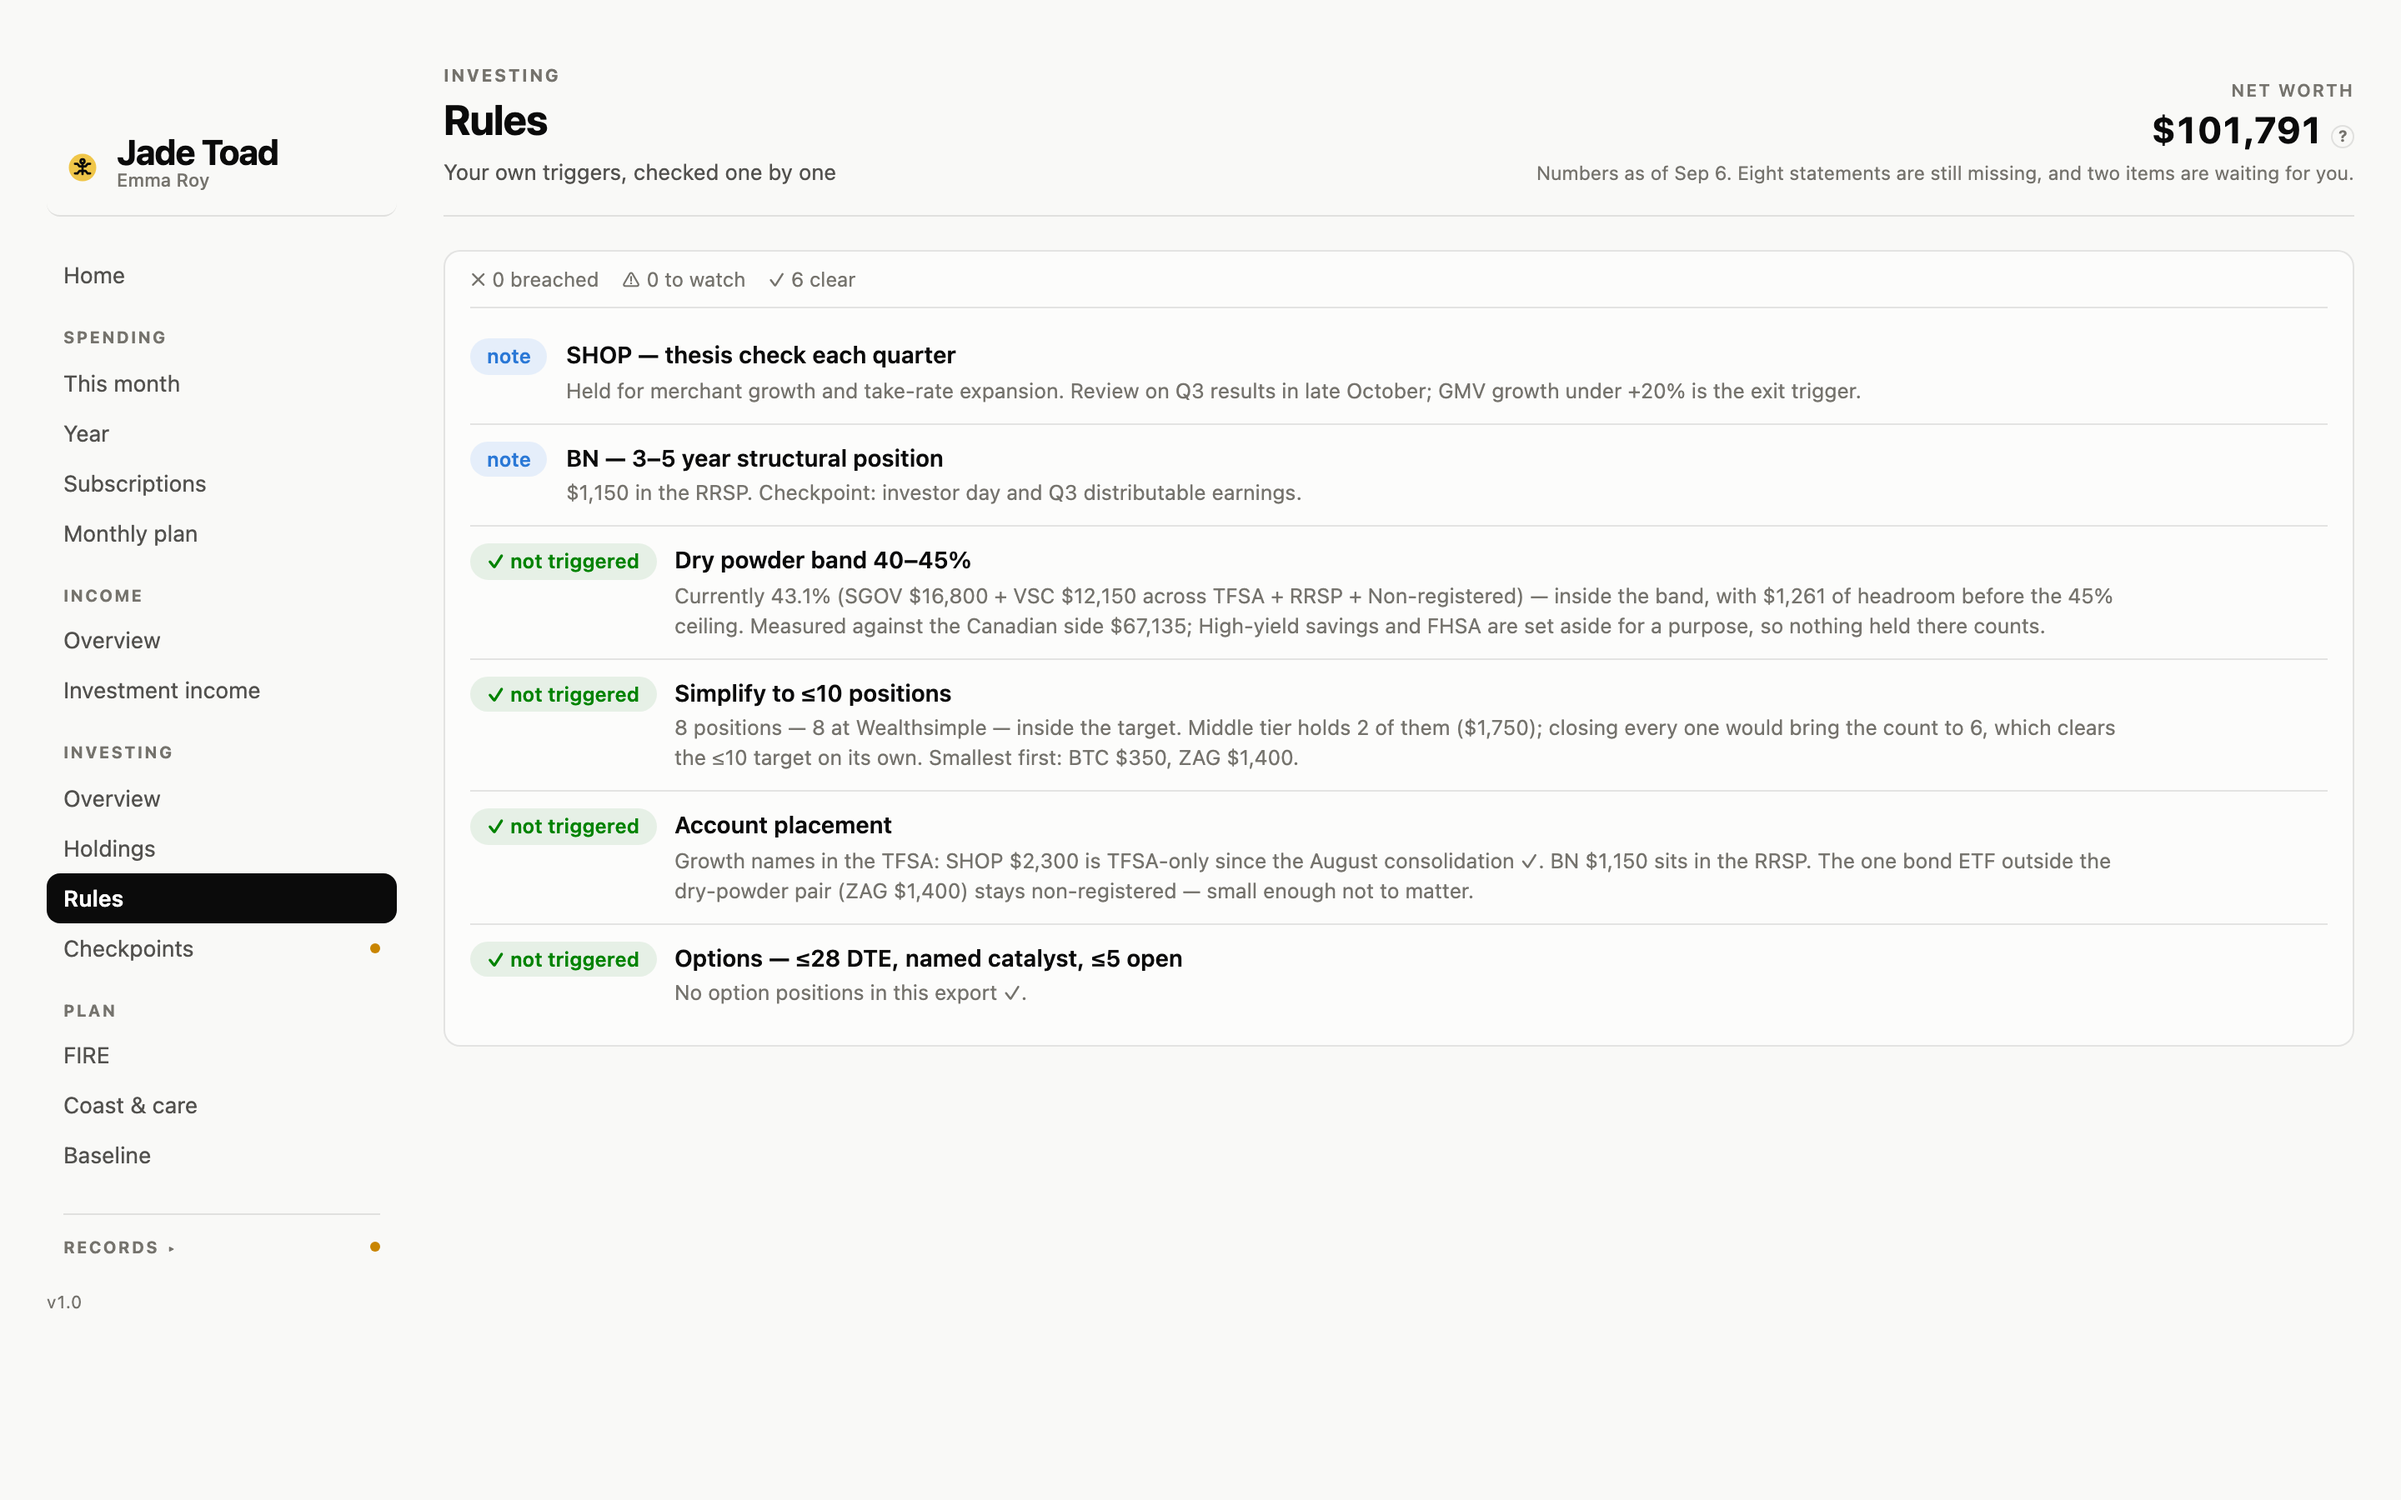
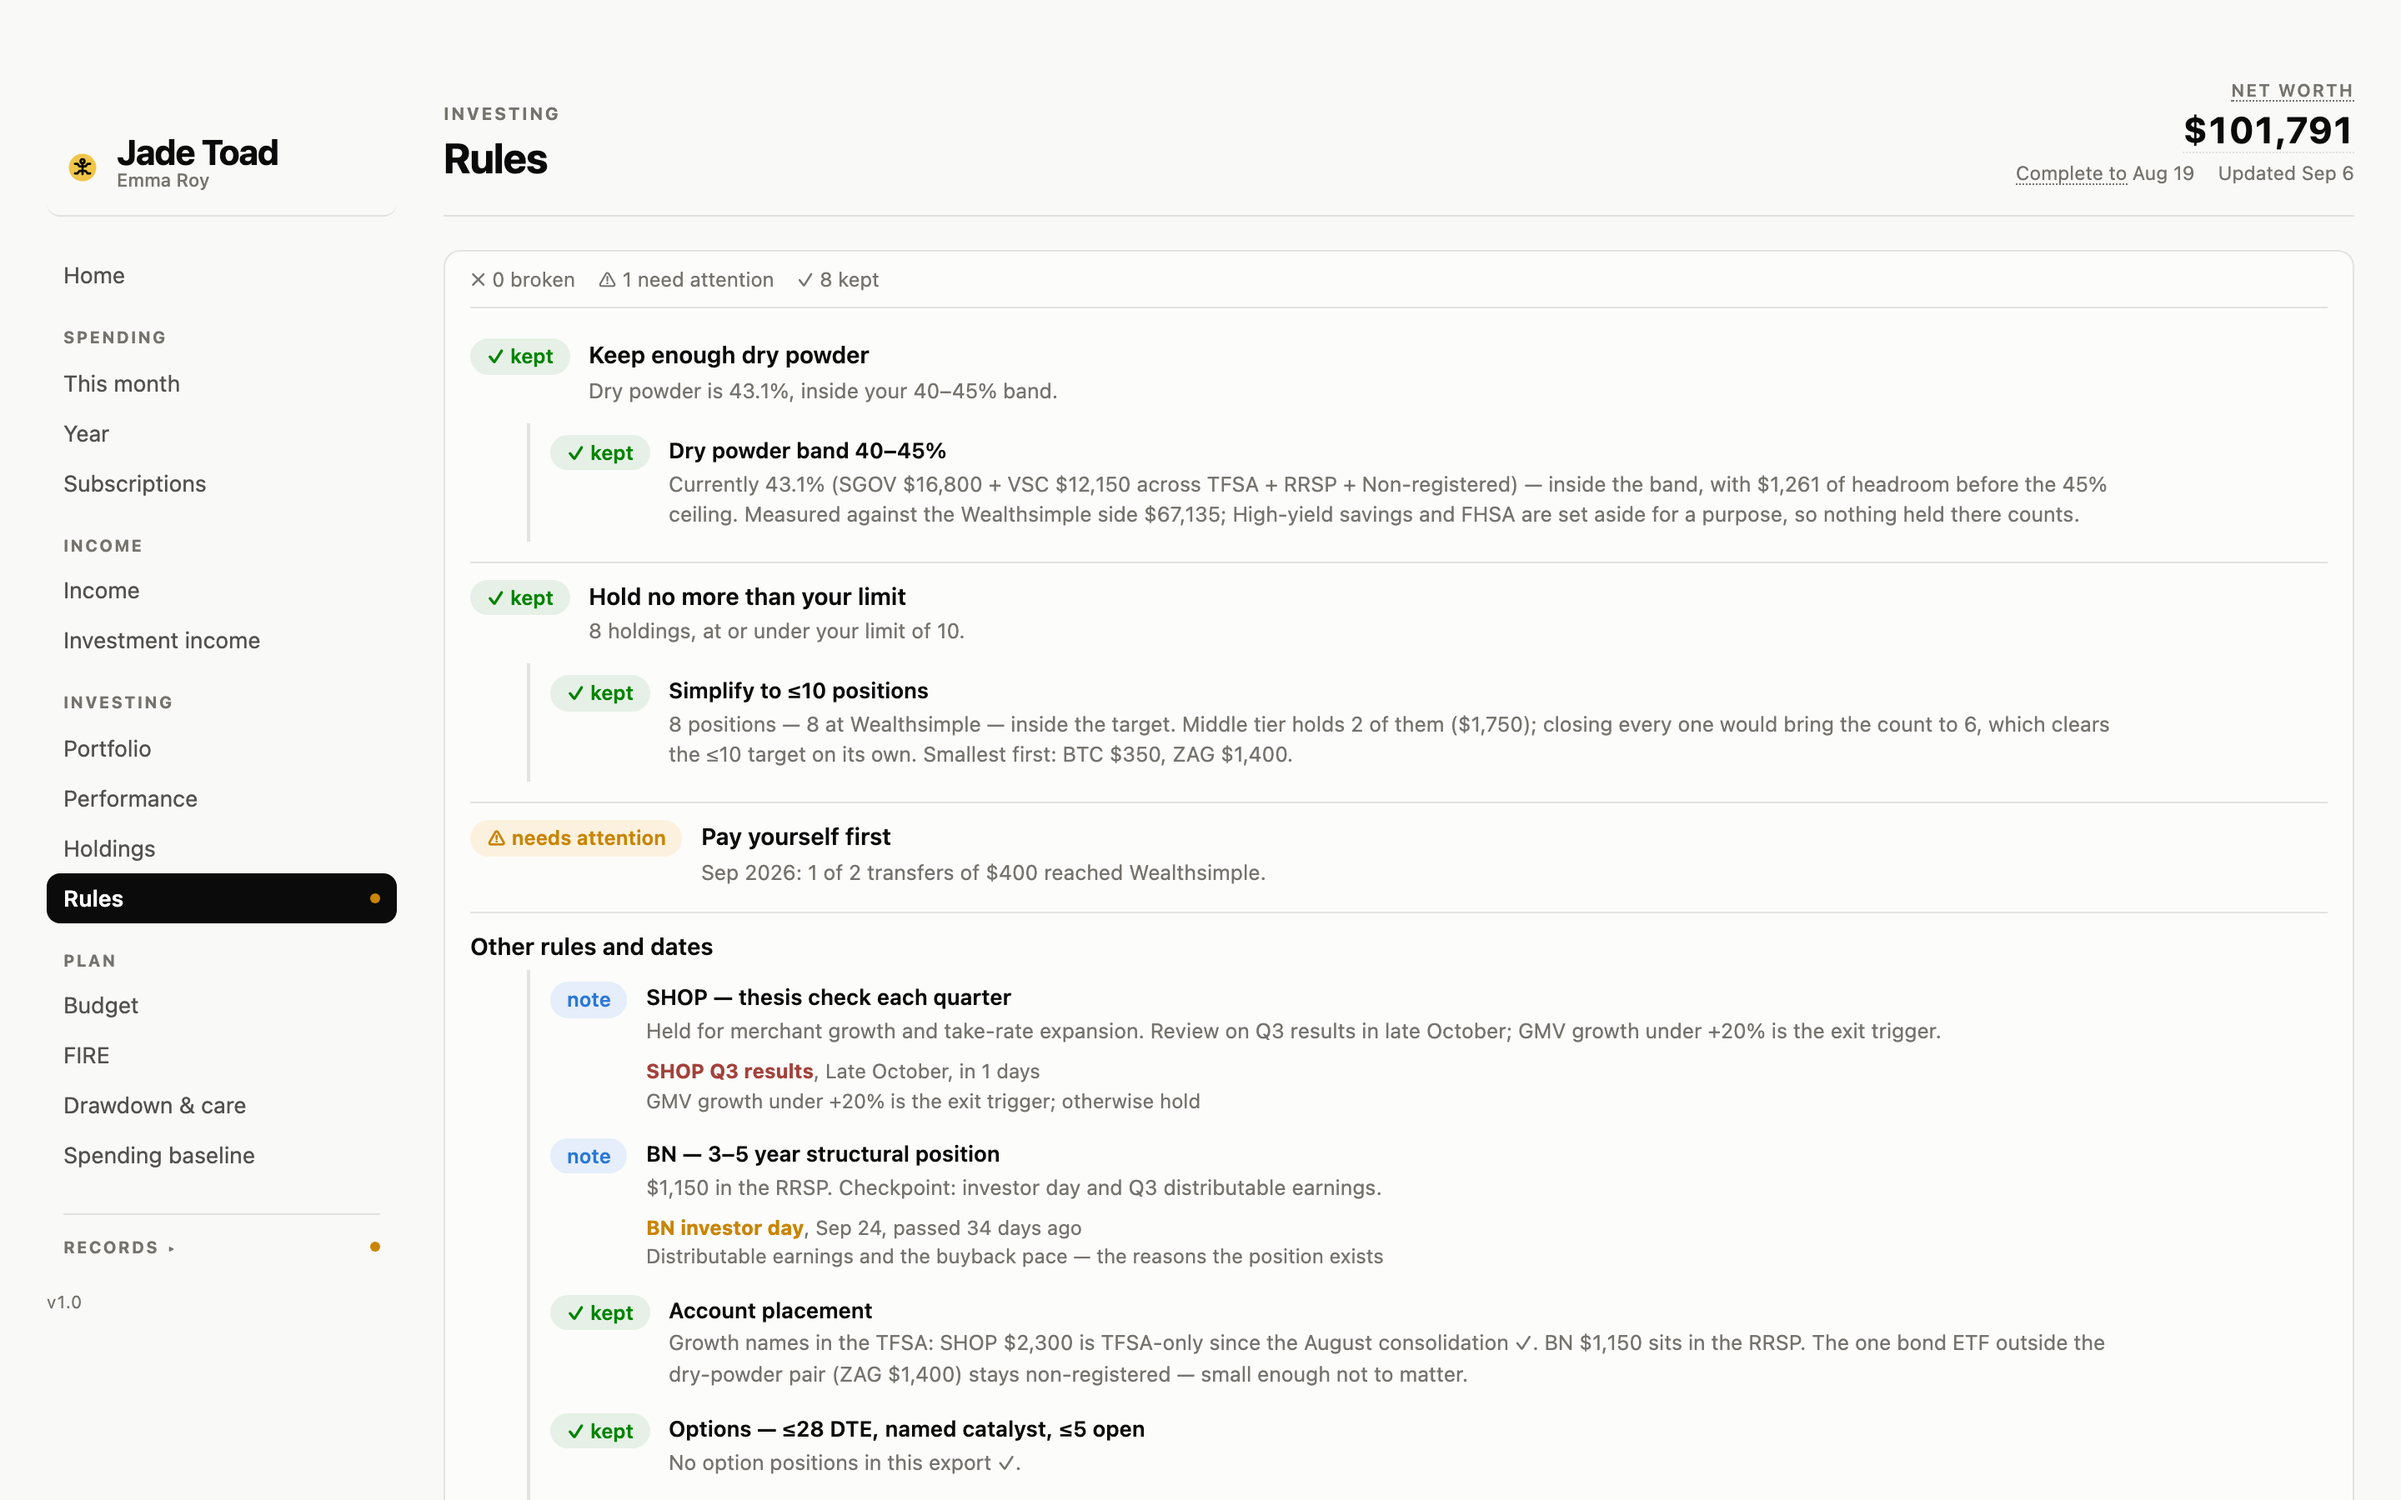
README: every page and what it answers, what is new since the first release, fresh screenshots; selftest copies the changelog and roadmap

diff --git a/.claude/skills/workspace-checks/scripts/selftest.py b/.claude/skills/workspace-checks/scripts/selftest.py
@@ -44,7 +44,8 @@ def stage(root, dst):
     # OWNER.md is optional (a workspace may not have written one yet); README names it.
     # .gitignore too: S4 exempts the files an owner writes and the tool deliberately does not ship
     # (setup-answers.json), and it learns which those are from there (2026-09-13).
-    for f in ("CLAUDE.md", "DESIGN.md", "FINANCE.md", "README.md", "OWNER.md", ".gitignore"):
+    # CHANGELOG.md and ROADMAP.md: README links to both, and S4 resolves every link.
+    for f in ("CLAUDE.md", "DESIGN.md", "FINANCE.md", "README.md", "OWNER.md", ".gitignore", "CHANGELOG.md", "ROADMAP.md"):
         if os.path.exists(os.path.join(root, f)):
             shutil.copy2(os.path.join(root, f), dst)
     # README names these folders in prose and S4 checks that every path it hands the reader

diff --git a/README.md b/README.md
@@ -21,11 +21,52 @@ does.
 
 | | |
 |---|---|
-| ![Net worth, cut two ways](docs/screens/home.png) | **Home.** Your net worth, cut by what each part is for and by how easily you could reach it. A sentence under it says how far the numbers go and what is still missing. |
-| ![A year of spending](docs/screens/spending.png) | **Spending.** This month opened up by category, then the year by month. No category caps — one allowance, and everything under it is guilt-free. |
-| ![The budget](docs/screens/plan.png) | **Budget.** What each paycheque is for: what is committed, what is invested first, what is free, what the two funds hold. |
-| ![Your investment rules](docs/screens/rules.png) | **Investing.** Your own rules — a cash band, a cap on holdings, the theses you wrote down — checked one by one against what you actually hold. |
-| ![Which file was filed](docs/screens/sources.png) | **Records.** Which statement arrived which month, every account and what it is still missing, and what each update changed or left waiting for you. |
+| ![Home](docs/screens/home.png) | **Home.** What needs you today, worst first, each line opening the page where it is dealt with. Net worth in one card: a row for what each part is for, its bar coloured by how easily you could reach it. Two dates under the net worth: the day every account is complete to, and the last update. |
+| ![A year of spending](docs/screens/spending.png) | **Spending.** This month, opened up by category; the year, month by month and against the allowance; subscriptions, with what is due in the next 30 days. No category caps — one allowance, and everything under it is guilt-free. |
+| ![The budget](docs/screens/plan.png) | **Plan.** What each paycheque is for; how far the portfolio is from the FIRE target and when it gets there; whether the money lasts once you start taking it out, replayed through every stretch of real years since 1928. |
+| ![Your investment rules](docs/screens/rules.png) | **Investing.** What you hold and how it splits; how it did against one fund you could have bought instead; your own rules — a cash band, where each holding belongs, the theses you wrote down — checked one by one. |
+| ![Which file was filed](docs/screens/sources.png) | **Records.** Everything waiting for you in one place; what each update changed; every account; which statement arrived which month; and a glossary of every term the page uses. |
+
+**Every word on a card is chosen.** A card has a label, one number and at most one fact. A
+term with a dotted underline shows its dictionary entry and opens the Glossary; a number with
+one shows the sum behind it. (Home, the header and Spending work this way; the other groups
+follow in the next release — see the [roadmap](ROADMAP.md).)
+
+### Every page
+
+| Section | Page | What it answers |
+|---|---|---|
+| — | Home | What needs you today, and what you are worth |
+| Spending | This month | How much is still free to spend, and where the money went |
+| | Year | How the year went, by category and month by month |
+| | Subscriptions | What repeats, what it costs a year, what is due next |
+| Income | Income | What came in, by source, and how much of it you kept |
+| | Investment income | What the portfolio paid you before you sold anything |
+| Investing | Portfolio | What is invested, by currency, by kind of asset and by bucket |
+| | Performance | How it did against one benchmark fund bought on the same days |
+| | Holdings | Every position, by role or by account |
+| | Rules | Each of your rules, checked today |
+| Plan | Budget | What each paycheque is for, and what the funds hold |
+| | FIRE | How far the portfolio is from the target, and when it gets there |
+| | Drawdown & care | Whether the money lasts, care included, and in how many real stretches of history it would have |
+| | Spending baseline | The monthly figure the target is built on, against what you really spend |
+| Records | To do | Questions, checks and tasks waiting for you |
+| | Updates | What each update changed |
+| | Accounts | Every place the money sits |
+| | Statements | Which statement arrived which month, and what is missing |
+| | Glossary | Every finance term, and every word the page coined |
+
+### New since the first release
+
+- **To do** gathers what waits on you, which used to sit on two pages with two counts.
+- **Performance**: the same money put into one fund you name, on the days it actually went in.
+- **Would it have lasted?** The drawdown replayed through every stretch of real years since
+  1928, mixed the way your portfolio is today.
+- **Coast to FIRE**: the age today's money reaches the target with nothing more added.
+- **Glossary**, dotted-underline terms and numbers that open their sum.
+- **Fetching statements**: once you have signed in to your bank yourself, Claude works out
+  which statements are missing, asks once, downloads them and files them into `inbox/`.
+- Net worth in one card instead of two; negative money reads −$61; the header says two dates.
 
 ## Try it in one minute
 

diff --git a/README.zh.md b/README.zh.md
@@ -19,11 +19,49 @@ Anthropic；解析器读成功的对账单，它从不看。
 
 | | |
 |---|---|
-| ![净值，两种拆法](docs/screens/home.png) | **Home。** 净值按「每一部分是干什么的」和「多容易拿到」各切一次。下面一句话告诉你数字截至哪天、还缺什么。 |
-| ![一年的支出](docs/screens/spending.png) | **Spending。** 先看这个月按分类拆开，再看一年按月。没有分类上限 —— 只有一条日常额度，线以下都是 guilt-free。 |
-| ![预算](docs/screens/plan.png) | **Budget。** 每份工资做什么用：先付固定支出，先投资，剩下多少自由花，两个基金里有多少。 |
-| ![你的投资规则](docs/screens/rules.png) | **Investing。** 你自己定的规则 —— 现金区间、持仓上限、写下的论点 —— 逐条对照实际持仓核对。 |
-| ![哪个月交了哪份文件](docs/screens/sources.png) | **Records。** 哪份对账单哪个月到了、每个账户还缺什么、每次更新改了什么、有什么等你确认。 |
+| ![Home](docs/screens/home.png) | **Home。** 今天要你处理的事，最严重的排前面，每一行点进去就是处理它的那一页。净值放在一张卡里：每一行是这部分钱的用途，色条按多容易拿到上色。净值下面两个日期：所有账户数据截至哪天，最近一次更新是哪天。 |
+| ![一年的支出](docs/screens/spending.png) | **Spending。** 这个月按分类拆开；一年按月看、和日常额度比；订阅，以及接下来 30 天要扣的。没有分类上限 —— 只有一条日常额度，线以下都是 guilt-free。 |
+| ![预算](docs/screens/plan.png) | **Plan。** 每份工资做什么用；投资组合离 FIRE 目标还有多远、哪年到；开始取钱以后钱够不够用 —— 用 1928 年以来每一段真实年份重放一遍。 |
+| ![你的投资规则](docs/screens/rules.png) | **Investing。** 持有什么、怎么分布；和「当初买一只基金」相比表现如何；你自己定的规则 —— 现金区间、每只持仓该放哪个账户、写下的论点 —— 逐条核对。 |
+| ![哪个月交了哪份文件](docs/screens/sources.png) | **Records。** 等你处理的事集中在一页；每次更新改了什么；每个账户；哪份对账单哪个月到了；以及页面上每个术语的词典。 |
+
+**卡片上的每个字都是挑过的。** 一张卡只有一个标题、一个数字、最多一句话。带虚线下划线的
+术语会显示词典释义、点开进 Glossary；带虚线的数字会显示它是怎么算出来的。（Home、页眉和
+Spending 已经这样；其他几组下一个版本跟上，见[路线图](ROADMAP.md)。）
+
+### 每一页
+
+| 分组 | 页面 | 回答什么 |
+|---|---|---|
+| — | Home | 今天要处理什么，你现在值多少 |
+| Spending | This month | 这个月还能花多少，钱花到哪了 |
+| | Year | 这一年按分类、按月怎么样 |
+| | Subscriptions | 哪些在重复扣钱、一年多少、下一笔什么时候 |
+| Income | Income | 收入从哪来，留下了多少 |
+| | Investment income | 不卖任何东西，投资组合付给你多少 |
+| Investing | Portfolio | 投了多少，按币种、资产类别、分组怎么分布 |
+| | Performance | 和同一天买入一只基准基金相比表现如何 |
+| | Holdings | 每个持仓，按角色或按账户 |
+| | Rules | 你的每条规则，今天是否守住 |
+| Plan | Budget | 每份工资做什么用，基金里有多少 |
+| | FIRE | 离目标还有多远，哪年到 |
+| | Drawdown & care | 钱够不够用（含养老护理），历史上多少段真实年份里撑得住 |
+| | Spending baseline | 目标所依据的月支出，和实际花了多少 |
+| Records | To do | 等你回答的问题、检查和任务 |
+| | Updates | 每次更新改了什么 |
+| | Accounts | 钱放在哪些地方 |
+| | Statements | 哪份对账单哪个月到了，还缺什么 |
+| | Glossary | 每个金融术语，以及页面自己起的每个词 |
+
+### 第一次发布以后新增的
+
+- **To do**：等你处理的事集中到一页，原来分在两页、各算各的数。
+- **Performance**：同样的钱在同一天买入你指定的一只基金，现在值多少。
+- **历史上撑得住吗？** 用 1928 年以来每一段真实年份重放取钱计划，按你现在的投资组合配比。
+- **Coast to FIRE**：今天的钱什么都不再加，几岁能到目标。
+- **Glossary**、虚线下划线的术语、能点开看算式的数字。
+- **下载对账单**：你自己登录银行以后，Claude 算出缺哪几份、问你一次、下载并放进 `inbox/`。
+- 净值合成一张卡；负数写作 −$61；页眉只说两个日期。
 
 ## 一分钟试一下
 
